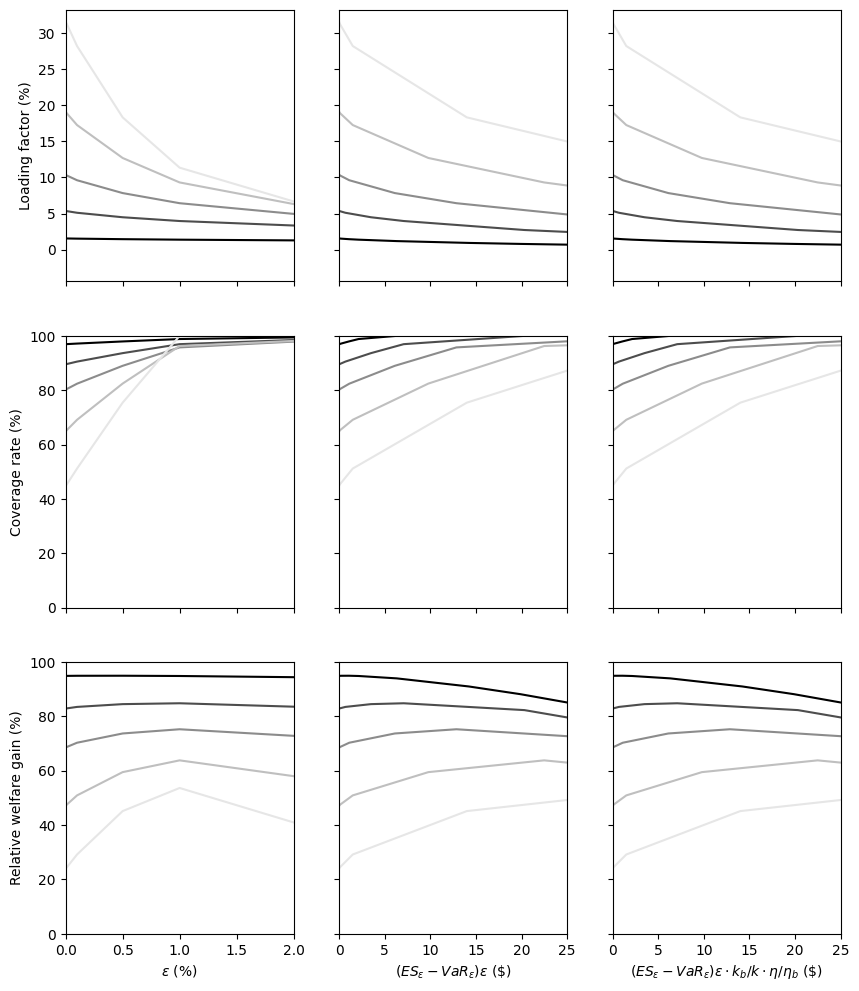
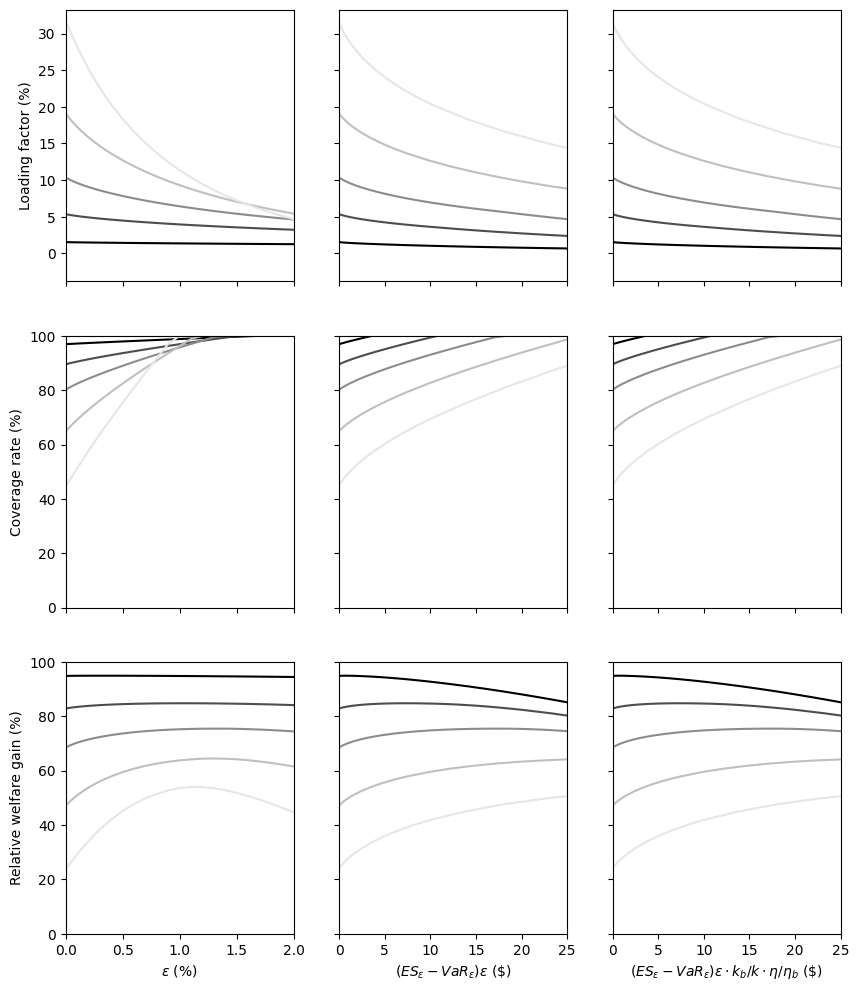
high resolution figures

diff --git a/Num_Model/NumMod2_LoadingCoverageWelfare.m b/Num_Model/NumMod2_LoadingCoverageWelfare.m
@@ -11,7 +11,7 @@ global w w_i eta eta_i n p L
 
 
 disp('')
-choix = 4 %1 for variation on c, 2 for variation on eta, 3 for variation on rho and 4 for variation on p and L
+choix = 1 %1 for variation on c, 2 for variation on eta, 3 for variation on rho and 4 for variation on p and L
 disp('')
 
 
@@ -128,9 +128,9 @@ pL_val = p*L;
 
 %Solve the problem for different policies (ie, different defaults or shortfalls)
 
-nb_round = 10 %47
-epsilon_list(:,k) = [0.00001,0.0001,0.001,0.005,0.01,0.03,0.07,0.10,0.14,0.20];
-%epsilon_list(:,k) = [0.00001,0.00005,0.0001,0.0002,0.0004,0.0007,0.0010,0.0015,0.0020,0.0025,0.0030,0.0035,0.004,0.005,0.006,0.007,0.008,0.009,0.010,0.011,0.012,0.013,0.014,0.015,0.016,0.017,0.018,0.019,0.020,0.021,0.022,0.023,0.024,0.025,0.026,0.028,0.03,0.04,0.05,0.06,0.07,0.08,0.09,0.10,0.12,0.14,0.16];
+nb_round = 54 %10
+%epsilon_list(:,k) = [0.00001,0.0001,0.001,0.005,0.01,0.03,0.07,0.10,0.14,0.20];
+epsilon_list(:,k) = [0.00001,0.00005,0.0001,0.0002,0.0004,0.0007,0.0010,0.0015,0.0020,0.0025,0.0030,0.0035,0.004,0.005,0.006,0.007,0.008,0.009,0.010,0.011,0.012,0.013,0.014,0.015,0.016,0.017,0.018,0.019,0.020,0.021,0.022,0.023,0.024,0.025,0.026,0.028,0.03,0.035,0.04,0.045,0.05,0.06,0.07,0.08,0.09,0.10,0.11,0.12,0.13,0.14,0.15,0.17,0.19,0.21];
 shortfall_list(:,k) = [1:nb_round];
 shortfall_costaver_list(:,k) = [1:nb_round];
 Lambda_list(:,k) = [1:nb_round];
